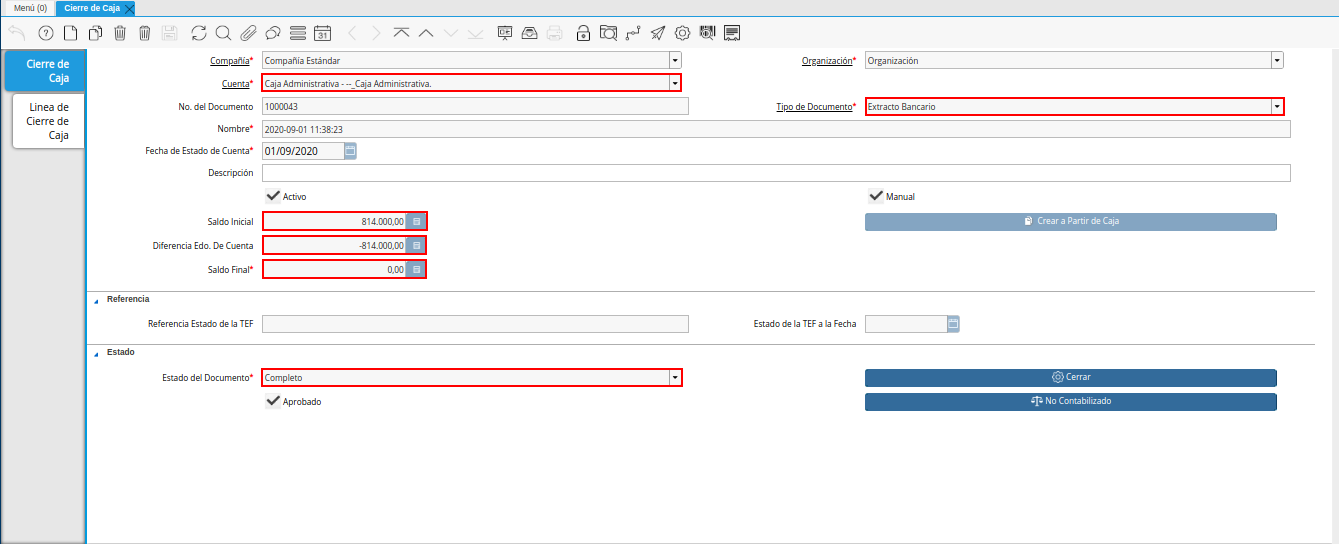
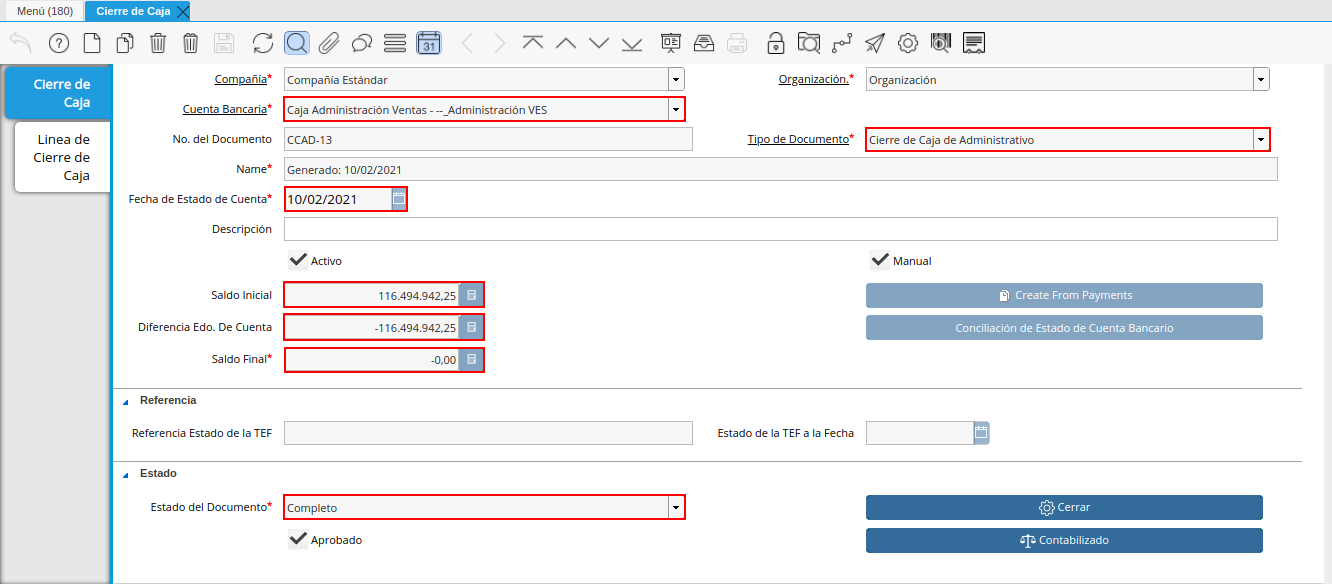
modificaciones

Changed region(s): [[0.0, 0.0, 1.0, 1.0], [0.6464, 0.8438, 0.9542, 0.9688], [0.5541, 0.5938, 0.6464, 0.625]]

diff --git a/src/adempiere/pos-management/transfer-to-bank.rst b/src/adempiere/pos-management/transfer-to-bank.rst
@@ -20,15 +20,13 @@
 .. |campo cargo de la ventana deposito a caja| image:: resources/field-charge-of-the-window-deposit-to-cash.png
 .. |campo tipo de documento para retiros de la ventana deposito a caja| image:: resources/document-type-field-for-withdrawals-from-the-deposit-to-cash-window.png
 .. |campo tipo de documento para deposito de la ventana deposito a caja| image:: resources/field-type-of-document-for-deposit-of-the-window-deposit-to-cash.png
+.. |check conciliar automáticamente del depósito de caja| image:: resources/check-automatically-reconcile-cash-deposit.png
 .. |opcion ok de la ventana deposito a caja| image:: resources/option-ok-from-the-window-deposit-to-cash.png
 .. |consulta de egreso en caja por deposito| image:: resources/check-out-checkout-by-deposit.png
 .. |consulta de ingreso en banco por deposito| image:: resources/bank-deposit-inquiry.png
-
 .. |transferencia bancaria de caja a banco por depositos| image:: resources/bank-transfer-from-cash-to-bank-for-deposits.png
 .. |consulta de egreso en caja por transferencia de deposito| image:: resources/consultation-of-cash-out-by-deposit-transfer.png
 .. |consulta de ingreso en banco por por transferencia de deposito| image:: resources/bank-deposit-inquiry-by-deposit-transfer.png
-
-
 .. |cierre de caja completo por traspaso a banco| image:: resources/full-cash-closing-by-bank-transfer.png
 
 .. _documento/traspaso-a-banco:
@@ -63,7 +61,7 @@ Cada uno de los procesos nombrados anteriormente son explicados a continuación.
 
     Imagen 2. Menú de ADempiere
 
-#. Podrá visualizar la ventana de búsqueda inteligente "**Depósito de Caja**", que permite realizar el proceso de depósito de las diferentes cajas registradas en ADempiere. Esta ventana cuenta con diferentes campos que le permiten al ususario filtrar la búsqueda de registros en base a lo que sea seleccionado en los mismos.
+#. Podrá visualizar la ventana de búsqueda inteligente "**Depósito de Caja**", que permite realizar el proceso de depósito de las diferentes cajas registradas en ADempiere. Esta ventana cuenta con diferentes campos que le permiten al usuario filtrar la búsqueda de registros en base a lo que sea seleccionado en los mismos.
 
     |ventana deposito a caja|
 
@@ -179,6 +177,12 @@ Cada uno de los procesos nombrados anteriormente son explicados a continuación.
 
     Imagen 20. Campo Tipo de Documento
 
+#. El check "**Conciliar Automáticamente**", permite que sea creado un registro de cierre de caja con la cuenta caja administrativa seleccionada anteriormente y asocia al mismo el registro del egreso que genera en la ventana "**Caja**". Para este caso, es necesario destildar el check para crear el cierre de caja de manera manual según lo requerido por el usuario.
+
+    |check conciliar automáticamente del depósito de caja|
+
+    Imagen 21. Check Conciliar Automáticamente
+
 #. Seleccione la opción "**OK**", para ejecutar el proceso y realizar el depósito de caja a banco.
 
     |opcion ok de la ventana deposito a caja|
@@ -218,7 +222,6 @@ Cada uno de los procesos nombrados anteriormente son explicados a continuación.
     - "**Descripción**": Una breve descripción relacionada a la transferencia que requiere generar. Para este ejemplo es utilizado como descripción "**Transferencia bancaria por pago de factura TMP- 0004910**".
     - "**Fecha de Estado de Cuenta**": La fecha en la cual se encuentra realizando la transferencia bancaria.
     - "**Fecha Contable**": La fecha en la cual se encuentra realizando la transferencia bancaria.
-    - "**Check Conciliar Automáticamente**": Tildarlo para conciliar de manera automática los registros de la transacción.
 
     |transferencia bancaria de caja a banco por depositos|
 
@@ -256,7 +259,7 @@ Cada uno de los procesos nombrados anteriormente son explicados a continuación.
 
         - "**Cuenta**": Caja Administración Ventas - --_Administración VES 
         - "**Tipo de Documento**": Cierre de Caja de Administrativo
-        - "**Fecha de Estado de Cuenta**": La fecha correspondiente al día de las ventas.
+        - "**Fecha de Estado de Cuenta**": La fecha correspondiente al día de las transacciones de cobro por las ventas.
 
     Recuerde cargar las transacciones seleccionando la opción "**Crear a Partir de Caja**", donde debe seleccionar los movimientos creados en la ventana "**Caja**", obtenidos como resultado de los procesos :ref:`documento/deposito-a-caja` y :ref:`documento/transferencia-bancaria-por-depositos`, previamente realizados.
 
